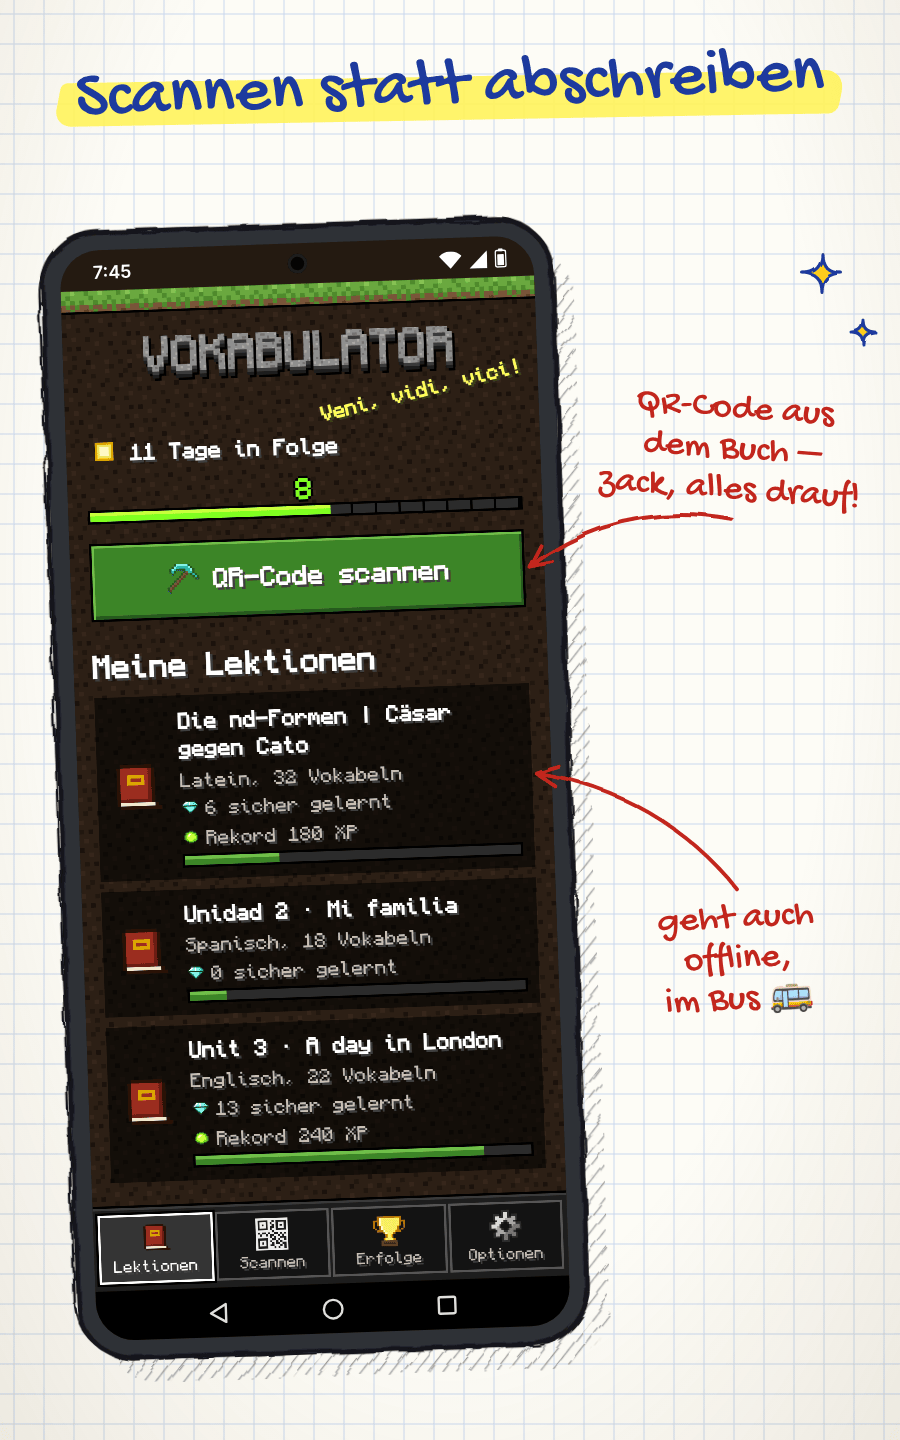
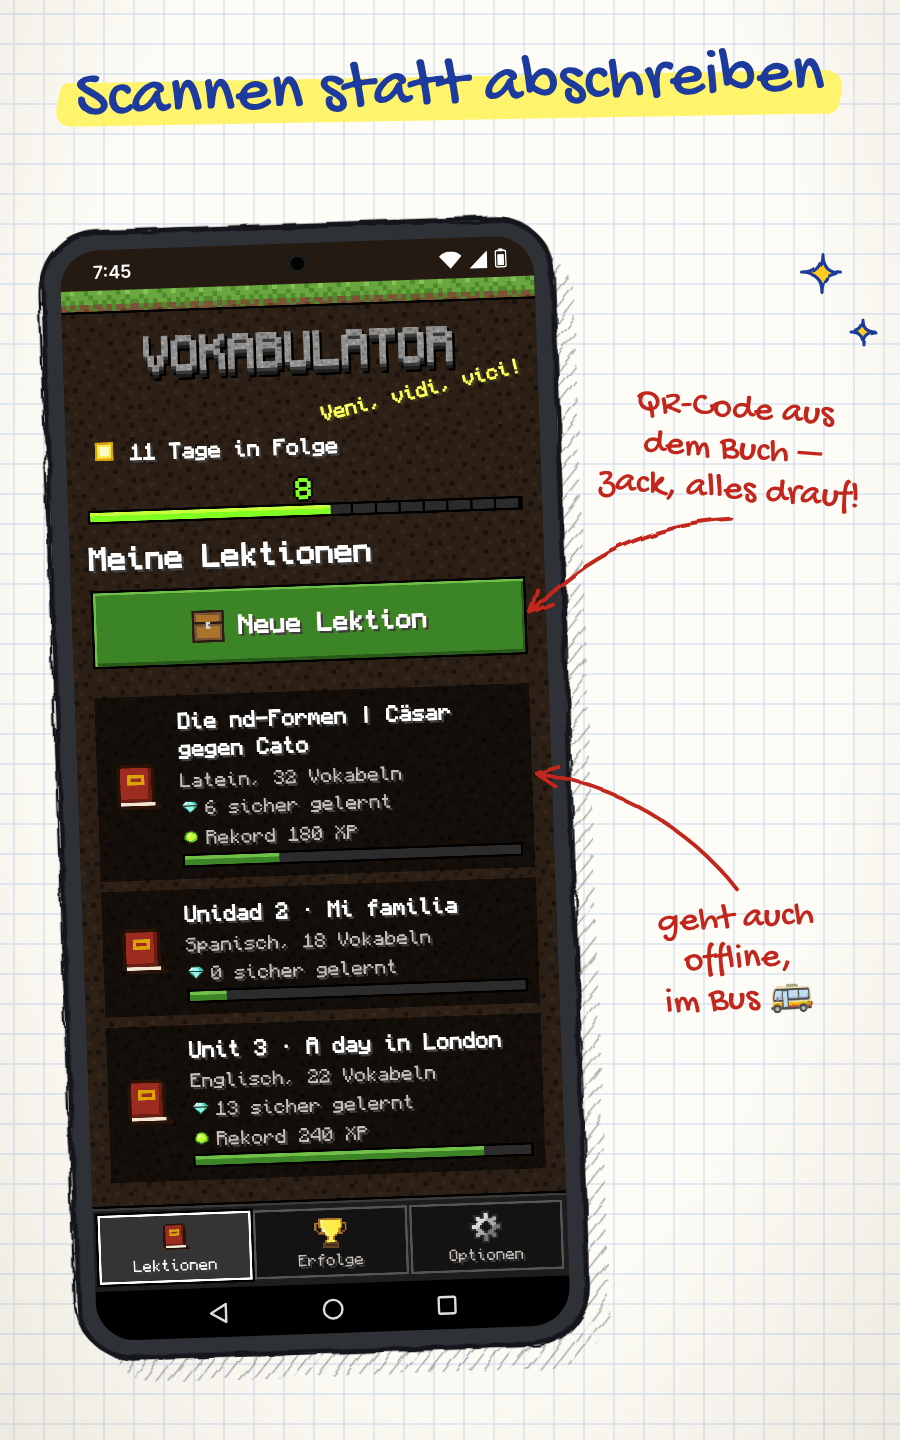
Batch 20: „Neue Lektion“ under „Meine Lektionen“ instead of „Scannen“ in the navigation – three slots (Lektionen, Erfolge, Optionen), /neu belongs to Lektionen and has „‹ Meine Lektionen“; the start page explains all ways to add a lesson; „Anki-Deck wählen“ stays on one line down to 280 px; screensh

Changed region(s): [[0.0933, 0.3438, 0.8089, 0.4688], [0.1556, 0.8125, 0.4667, 0.9062], [0.4978, 0.8438, 0.5911, 0.875]]

diff --git a/src/routes/+page.svelte b/src/routes/+page.svelte
@@ -1,6 +1,7 @@
 <!--
-  Start page: days in a row and level, the big scan button, and "Meine Lektionen" –
-  every unit with how much of it is learned (the name and splash text sit in +layout.svelte).
+  Start page: days in a row and level, then "Meine Lektionen": the big button for a new lesson
+  (/neu: scan, code, text or file) and every unit with how much of it is learned
+  (the name and splash text sit in +layout.svelte).
 -->
 <script>
 	import { resolve } from '$app/paths';
@@ -36,18 +37,18 @@
 	<div class="level"><XpBar xp={stats.xp} /></div>
 </div>
 
-<a class="button primary scan" href={resolve('/neu')}>
-	<Sprite name="pickaxe" size={32} />
-	{canScanQr ? 'QR-Code scannen' : 'Neue Lektion anlegen'}
-</a>
-
 <h1>Meine Lektionen</h1>
+
+<a class="button primary add" href={resolve('/neu')}>
+	<Sprite name="chest" size={32} />
+	Neue Lektion
+</a>
 
 {#if units.length === 0}
 	<p class="card read">
-		Noch keine Lektion. {canScanQr
-			? 'Scanne den QR-Code neben den Vokabeln in deinem Buch'
-			: 'Gib den Mediencode aus deinem Buch ein'} – dann kannst du sofort loslegen.
+		Noch keine Lektion. Tipp auf „Neue Lektion“ und {canScanQr
+			? 'scanne den QR-Code neben den Vokabeln in deinem Buch'
+			: 'gib den Mediencode aus deinem Buch ein'} – oder tippe Wörter ein oder lade ein Anki-Deck.
 	</p>
 {:else}
 	<ul class="units">
@@ -99,7 +100,7 @@
 		font-weight: 600;
 	}
 
-	.scan {
+	.add {
 		width: 100%;
 		min-height: 4rem;
 		margin-bottom: 1.5rem;

diff --git a/src/lib/components/NavBar.svelte b/src/lib/components/NavBar.svelte
@@ -1,6 +1,8 @@
 <!--
   The areas of the app, always at the bottom of the screen – drawn like the hotbar
-  in the game: four slots, the area you are in has the white selection frame.
+  in the game: three slots, the area you are in has the white selection frame.
+  A new lesson is added under "Lektionen" (button on the start page → /neu), whichever way
+  it comes in: scanned, typed, a file.
   Rendered once, in +layout.svelte. During a round the learning page hides it
   (nav.hidden), so that nothing but the word is on screen.
 -->
@@ -12,7 +14,6 @@
 <script>
 	import { resolve } from '$app/paths';
 	import { page } from '$app/state';
-	import { canScanQr } from './QrScanner.svelte';
 	import Sprite from './Sprite.svelte';
 
 	/** each area with the pages that belong to it */
@@ -21,9 +22,8 @@
 			href: resolve('/'),
 			sprite: 'book',
 			label: 'Lektionen',
-			pages: ['/', '/einheit/', '/lernen/']
+			pages: ['/', '/neu', '/einheit/', '/lernen/']
 		},
-		{ href: resolve('/neu'), sprite: 'qr', label: canScanQr ? 'Scannen' : 'Neu', pages: ['/neu'] },
 		{ href: resolve('/erfolge'), sprite: 'trophy', label: 'Erfolge', pages: ['/erfolge'] },
 		{ href: resolve('/optionen'), sprite: 'gear', label: 'Optionen', pages: ['/optionen'] }
 	];
@@ -63,7 +63,7 @@
 
 	ul {
 		display: grid;
-		grid-template-columns: repeat(4, minmax(0, 1fr));
+		grid-template-columns: repeat(3, minmax(0, 1fr));
 		gap: 2px;
 		max-width: 40rem;
 		margin: 0 auto;

diff --git a/src/lib/pixel/sprites.js b/src/lib/pixel/sprites.js
@@ -391,27 +391,6 @@ export const SPRITES = {
 	},
 
 	// --- navigation (NavBar.svelte) ---------------------------------------------------
-	qr: {
-		palette: { w: '#ececec', k: '#1d1d1d' },
-		rows: [
-			'wwwwwwwwwwwwwwww',
-			'wkkkkkwwkwkkkkkw',
-			'wkwwwkwkwwkwwwkw',
-			'wkwkwkwwkwkwkwkw',
-			'wkwwwkwkkwkwwwkw',
-			'wkkkkkwkwwkkkkkw',
-			'wwwwwwwwkwwwwwww',
-			'wkwkkwkwwkkwkwkw',
-			'wwkwwkwkkwwkwkww',
-			'wwwwwwwkwkwwkkkw',
-			'wkkkkkwwkkwkwwkw',
-			'wkwwwkwkwwkwkwww',
-			'wkwkwkwwkwkkwkkw',
-			'wkwwwkwkkwwwkwkw',
-			'wkkkkkwwwkwkwwkw',
-			'wwwwwwwwwwwwwwww'
-		]
-	},
 	trophy: {
 		palette: { o: '#b07400', y: '#fcee4b', w: '#fffbd0', b: '#6b4423', B: '#4a2e17' },
 		rows: [

diff --git a/src/routes/neu/+page.svelte b/src/routes/neu/+page.svelte
@@ -13,6 +13,7 @@
 <script>
 	import { onMount } from 'svelte';
 	import { page } from '$app/state';
+	import { resolve } from '$app/paths';
 	import { canScanQr } from '#lib/components/QrScanner.svelte';
 	import { loadPdfjs } from '#lib/import/pdf-items.js';
 	import { readChallenge } from '#lib/share.js';
@@ -41,6 +42,7 @@
 	});
 </script>
 
+<a class="back" href={resolve('/')}>‹ Meine Lektionen</a>
 <h1>{reload ? 'Neu laden' : packed || initialCode ? '📩 Von einem Freund' : 'Neue Lektion'}</h1>
 
 {#if challenge}

diff --git a/src/routes/neu/FileImport.svelte b/src/routes/neu/FileImport.svelte
@@ -176,9 +176,11 @@
 		gap: var(--gap);
 	}
 
+	/* one line down to 280 px */
 	.pick {
 		min-height: 3.5rem;
-		font-size: 1.1rem;
+		font-size: clamp(0.75rem, 4.4vw, 1.1rem);
+		white-space: nowrap;
 
 		input {
 			display: none;

diff --git a/PLANS/vokabulator.md b/PLANS/vokabulator.md
@@ -28,6 +28,7 @@
 | 17 | Fehler vom ersten Tag: Links auf fehlende Lektionen, Toast-Schleife, Zurück, Buttons | ✅ lokal geprüft – Deploy durch dich |
 | 18 | Vokabeln in der Runde in Lexend statt Monocraft | ✅ lokal geprüft – Deploy durch dich |
 | 19 | Anki-Decks importieren (Tab „Datei“), schlanke Import-Schnittstelle, Französisch | ✅ lokal geprüft – Deploy und Handy-Test durch dich |
+| 20 | „Neue Lektion“ unter „Meine Lektionen“ statt „Scannen“ in der Navigation | ✅ lokal geprüft – Deploy durch dich |
 
 ## Kontext
 
@@ -125,7 +126,7 @@ src/lib/toasts.svelte.js        Einblendungen oben rechts (showToast), überlebe
 src/lib/components/             ProgressBar, WordTimer, HardButton (Amboss), QrScanner, NavBar (Hotbar unten), Toasts, …
 src/routes/+layout.js           ssr = false
 src/routes/+layout.svelte       Graskante, NavBar, Toasts
-src/routes/+page.svelte         „Meine Welten“
+src/routes/+page.svelte         „Meine Lektionen“: Knopf „Neue Lektion“ (→ /neu), Liste der Lektionen
 src/routes/neu/+page.svelte     Import: Scannen | Code | Text | Datei   (?code=… und #d=… für Teilen-Links)
 src/routes/neu/*Import.svelte   je Import-Weg eine Komponente; Scan, Code und Link speichern sofort (MediencodeLoader,
                                 SharedImport), Text und Datei zeigen erst die Vorschau (DraftPreview)
@@ -539,6 +540,18 @@ Teilen und „Neu laden“ brauchen nichts Neues: Anki-Lektionen reisen wie Text
 aus Campus A ergibt einen Link mit 1288 Zeichen. Neu laden gibt es nur für Buchner-Codes; ein Deck wählt man einfach
 noch einmal (♻, der Lernstand bleibt).
 
+### Batch 20 – „Neue Lektion“ unter „Lektionen“
+Rückmeldung: „Scannen“ in der Navigation passt nicht mehr – das ist jetzt ein Import, und Scannen nur einer von
+mehreren Wegen. Gehört eher zu „Lektionen > Hinzufügen“.
+- **Navigation mit drei Slots:** Lektionen · Erfolge · Optionen. `/neu` gehört zum Bereich „Lektionen“ (weißer
+  Rahmen dort) und hat oben „‹ Meine Lektionen“ wie die Lektionsseite. Das Sprite `qr` entfällt.
+- **Startseite:** Der große Knopf steht jetzt unter „Meine Lektionen“ und heißt **„Neue Lektion“**, mit der Truhe
+  (wie die Meldung „Vokabeln importiert!“). Er führt wie bisher zu `/neu`, dort ist „Scannen“ der erste Tab:
+  Fürs Scannen bleibt es bei einem Tipp von der Startseite.
+- Ohne Lektionen erklärt die Startseite die Wege: QR-Code scannen, Wörter eintippen oder ein Anki-Deck laden.
+- „Anki-Deck wählen 📂“ bleibt bis 280 px einzeilig (Schrift wie bei den Tabs etwas kleiner).
+- README-Screenshots neu erzeugt.
+
 ## Entscheidungs-Log
 - 2026-10-18: SvelteKit 3 im SPA-Modus, JS + JSDoc, Apache, localStorage, Leitner ohne Datums-Intervalle,
   nur moderne Browser-APIs (Chrome Android), keine Polyfills, Batches 0–3 am Stück, danach batchweise mit Review.
@@ -678,6 +691,12 @@ noch einmal (♻, der Lernstand bleibt).
     synthetische Decks (`fixtures/make-apkg.js` baut alle drei Versionen), die echten liegen lokal in
     `fixtures/local/` (in `.gitignore`), ihre Tests laufen nur, wenn sie da sind.
 
+- 2026-10-24 (Batch 20): **„Neue Lektion“ statt eines eigenen Navigations-Slots.** Hinzufügen ist eine Handlung
+  im Bereich Lektionen, kein eigener Bereich; die Navigation zeigt nur noch, wo man ist. Ein Slot „Neu“ hätte das
+  Hinzufügen von jeder Seite aus einen Tipp näher gehalten – das zählt wenig, weil man fast immer von der
+  Startseite aus hinzufügt. Der Knopf heißt wie die Seite („Neue Lektion“); „Lektion hinzufügen“ wäre bei 280 px
+  zu breit für eine Zeile.
+
 ## Risiken / offene Punkte
 - Andere Buchner-PDFs (andere Bücher, Englisch/Spanisch) können ein anderes Layout haben → Parser-Varianten pro Layout.
   Für alles andere gibt es den universellen Text-Import.
@@ -772,6 +791,10 @@ noch einmal (♻, der Lernstand bleibt).
   - Campus alle → 42 Teile; French 5000 (77 MB) in 0,5 s, 15 Notiztypen zur Auswahl, Sprache Französisch
   - PDF statt Deck → „Diese Datei kenne ich nicht“; offline → „brauchst du kurz Internet“, danach online ohne Neuladen
   - Tabs und Auswahl bei 280, 320, 360 und 390 px ohne Überlauf, keine Fehler in der Konsole
+- 2026-10-24: Batch 20 – Navigation ohne „Scannen“ (drei Slots), „Neue Lektion“ unter „Meine Lektionen“, `/neu` mit
+  „‹ Meine Lektionen“ und im Bereich Lektionen, Anki-Knopf einzeilig, Screenshots neu. Im Chromium geprüft
+  (280 und 390 px): Knopf einzeilig, Startseite → „Neue Lektion“ → `/neu` (Slot „Lektionen“ aktiv) → zurück,
+  der Batch-19-Ablauf komplett grün, keine Fehler in der Konsole. Tests (150), check, Lint grün.
 
 ## Verifikation
 - Automatisch: `npm run check` (svelte-check / JSDoc-Typen), `npm test` (Vitest: Parser, Leitner, später Antwortprüfung,

diff --git a/README.md b/README.md
@@ -6,7 +6,7 @@ offline auf dem Handy, dann wird gelernt – mit Karteikarten, Punkten und Emoji
 Live: https://vokabulator.thms.de/ · Plan, Stand und Entscheidungen: [`PLANS/vokabulator.md`](PLANS/vokabulator.md) (living document).
 
 <p align="center">
-  <img src="docs/screenshots/1-lektionen.png" width="32%" alt="Startseite: großer Knopf „QR-Code scannen“, darunter die eigenen Lektionen in Latein, Spanisch und Englisch mit Fortschritt und Rekord">
+  <img src="docs/screenshots/1-lektionen.png" width="32%" alt="Startseite: unter „Meine Lektionen“ der große Knopf „Neue Lektion“, darunter die eigenen Lektionen in Latein, Spanisch und Englisch mit Fortschritt und Rekord">
   <img src="docs/screenshots/2-runde.png" width="32%" alt="Eine Runde im Modus Auswahl: das lateinische Wort līberālitās mit vier deutschen Antworten, Combo ×2 und Jokern">
   <img src="docs/screenshots/3-ergebnis.png" width="32%" alt="Ergebnis einer fehlerfreien Runde: Perfekt – GOAT!, +230 XP, Level-Up, neuer Rekord und Konfetti">
 </p>
